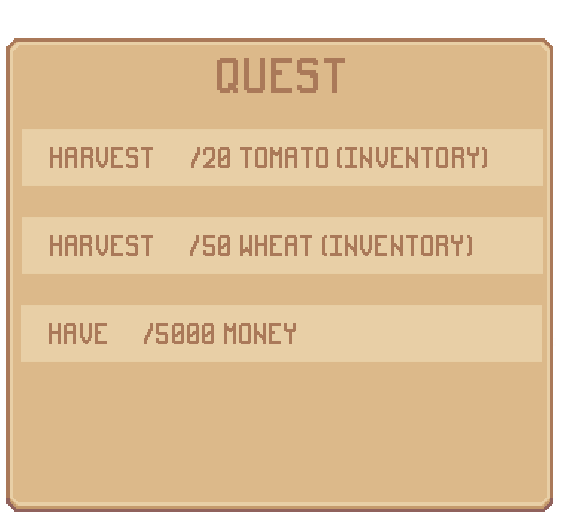
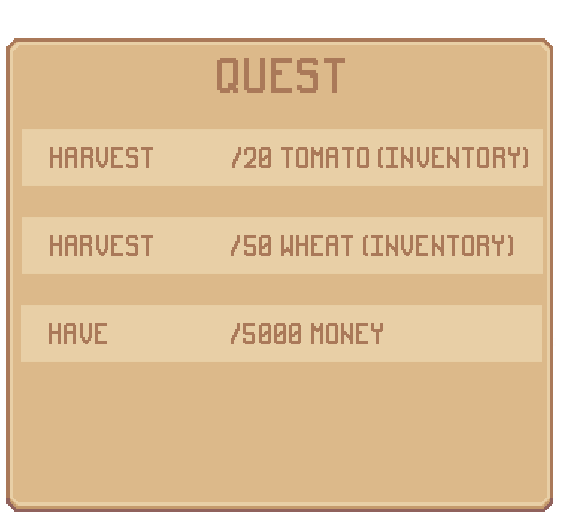
update

Changed region(s): [[0.3321, 0.2812, 0.9361, 0.3438], [0.3321, 0.4375, 0.9361, 0.5], [0.2416, 0.625, 0.6945, 0.6875]]

diff --git a/Code/ui.py b/Code/ui.py
@@ -31,6 +31,8 @@ class ui:
         self.dialogue_frame = pygame.image.load('../graphics/ui/dialogue_frame.png').convert_alpha()
         self.trader_avt = pygame.image.load('../graphics/ui/trader_avt.png').convert_alpha()
         self.guide_avt = pygame.image.load('../graphics/ui/guide_avt.png').convert_alpha()
+        self.player_avt = pygame.image.load('../graphics/ui/player_avt.png').convert_alpha()
+
 
         # Thêm thuộc tính cho ngày
         self.current_day = 1  # Ngày bắt đầu
@@ -129,6 +131,9 @@ class ui:
         self.button1_sound = pygame.mixer.Sound('../audio/button1.wav')
         self.cricket_sound = pygame.mixer.Sound('../audio/cricket.mp3')
         self.cricket_sound.set_volume(0.3)
+
+        #first dialogue
+        self.first_dialogue()
 
     # Hàm để vẽ UI lên màn hình
     def draw_UI(self):
@@ -266,6 +271,18 @@ class ui:
             self.active_ui_rects.append(self.ui_quest_bg_rect)
         self.draw_exit_button()
 
+        # Vị trí hiển thị của các text
+        apple_pos = (self.ui_quest_bg_rect.x + 175, self.ui_quest_bg_rect.y + 158)
+        wheat_pos = (self.ui_quest_bg_rect.x + 175, self.ui_quest_bg_rect.y + 245)
+        coin_pos = (self.ui_quest_bg_rect.x + 145, self.ui_quest_bg_rect.y + 332)
+
+        # Sử dụng hàm draw_text_with_outline để vẽ các text
+        self.draw_text_with_outline(f"{self.player.item_inventory['tomato']}", apple_pos[0], apple_pos[1], WHITE,
+                                    COLOR_MAIN, 2)
+        self.draw_text_with_outline(f"{self.player.item_inventory['wheat']}", wheat_pos[0], wheat_pos[1], WHITE,
+                                    COLOR_MAIN, 2)
+        self.draw_text_with_outline(f"{self.player.money}", coin_pos[0], coin_pos[1], WHITE, COLOR_MAIN, 2)
+
     def draw_ui_backpack(self):
         #vẽ background backpack
         self.display_surface.blit(self.ui_backpack_surf, self.ui_backpack_rect)
@@ -359,6 +376,14 @@ class ui:
                     # Vẽ tên Guide dưới hình đại diện
                     self.draw_text_with_outline("Guide", frame_rect.centerx,
                                                 avt_rect.bottom + 20, COLOR_MAIN, COLOR_BASE_1_LIGHT, 3)  # Điều chỉnh vị trí nếu cần
+            else:
+                    player_avt_rect = self.player_avt.get_rect(
+                        center=frame_rect.center)  # Đảm bảo vị trí tương tự như trước
+                    self.display_surface.blit(self.player_avt, player_avt_rect)  # Vẽ hình ảnh mới lên màn hình
+
+                    # Vẽ tên Guide dưới hình đại diện
+                    self.draw_text_with_outline("You", frame_rect.centerx,
+                                                player_avt_rect.bottom + 20, COLOR_MAIN, COLOR_BASE_1_LIGHT, 3)
 
         self.dialogue_manager.draw()  # Vẽ hội thoại
 
@@ -459,10 +484,24 @@ class ui:
             collied_interaction_sprite = pygame.sprite.spritecollide(self.player, self.player.interaction, False)
             if collied_interaction_sprite:
                 if collied_interaction_sprite[0].name == 'Trader':
-                    dialogues = ["Chao ban!", "Ban khoe chu!", "Toi co mot vai mon hang can trao doi day." , "Xem di nhe!"]
+                    dialogues = [
+                        "Hello! Need something to buy or sell?",
+                        "I have the best seeds in town. Choose what you like!",
+                        "And want to sell your crops? I’ll give you a fair price."
+                    ]
+
                     self.start_dialogue(dialogues, self.player.open_trader)  # Bắt đầu hội thoại mới
                 elif collied_interaction_sprite[0].name == 'Guide':
-                    dialogues = ["Chao ban!", "Cong viec hom nay the nao roi", "Ban hay trong va thu hoach 5 lua mi va 5 ca chua truoc nhe" , "Toi se doi!"]
+                    dialogues = [
+                        "Welcome to Sprout Land! I'm here to guide you through your farm.",
+                        "To start, grab your hoe and begin tilling the soil.",
+                        "Once the soil is ready, it's time to plant your seeds.",
+                        "Water your plants every day. They need it to grow.",
+                        "Each plant grows at its own pace, so be patient!",
+                        "If you need to trade, head up to the mountain to find the trader.",
+                        "Keep up the good work, and let me know if you need more help!"
+                    ]
+
                     self.start_dialogue(dialogues, self.player.end_conservation)  # Bắt đầu hội thoại mới
         if keys[pygame.K_RETURN] and self.dialogue_manager.in_dialogue:
             self.dialogue_manager.advance_sentence()  # Chuyển câu thoại
@@ -476,6 +515,21 @@ class ui:
             self.active_ui_rects.remove(self.ui_quest_bg_rect)
         if self.setting_bg_rect in self.active_ui_rects:
             self.active_ui_rects.remove(self.setting_bg_rect)
+
+    def first_dialogue(self):
+
+        dialogues = [
+            "It has been so long since I left this place...",
+            "The farm looks... different. Much has changed.",
+            "But this is where it all begins. I need to restore it.",
+            "First, I should clear the land and start planting.",
+            "This won’t be easy, but I’m ready for the challenge.",
+            "I will reconnect with the land... and with the people here.",
+            "Let’s get started. Maybe i should ask nearby guy how to plant."
+        ]
+
+        self.start_dialogue(dialogues, self.player.end_conservation)  # Bắt đầu hội thoại mới
+
 
 
     def run(self):
